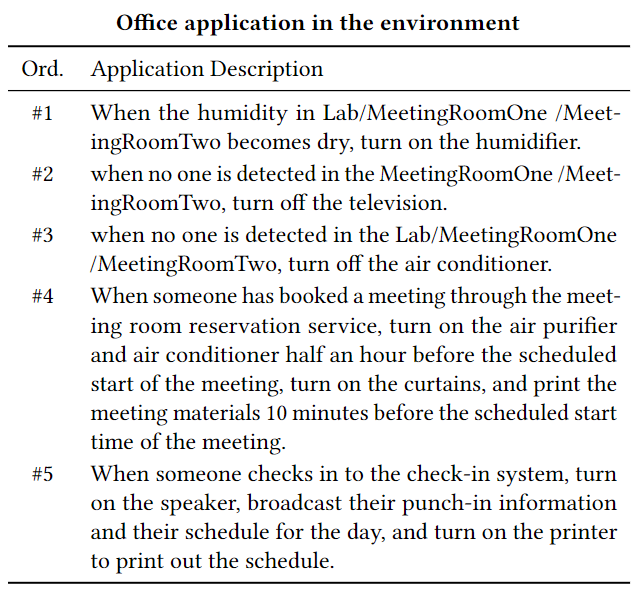
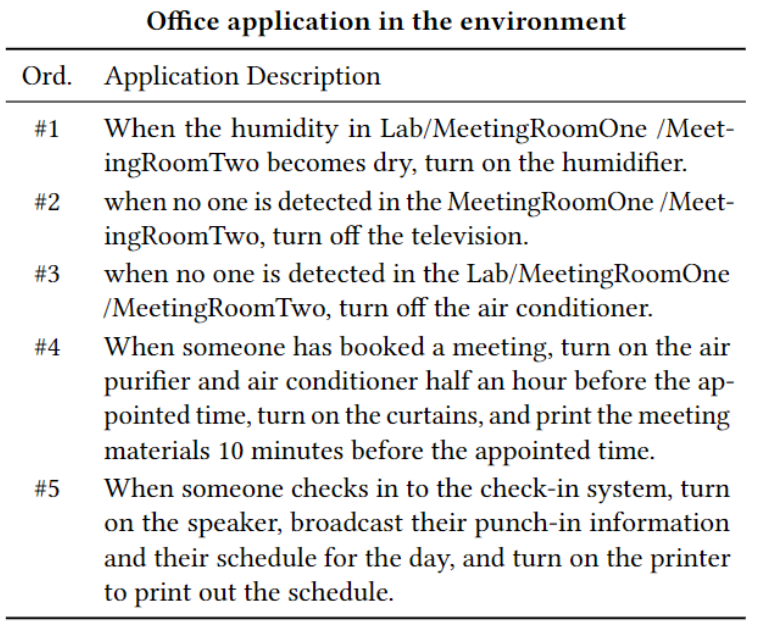
upload images

diff --git a/README.md b/README.md
@@ -20,21 +20,20 @@ The spatial layout and the deployed devices of the smart office and the smart ho
 <!-- There are 21 students working and studying in the laboratory, and 5 types of WoT applications are deployed to provide convenience for daily office work. Details of the applications are described below:
 <div align=center><img width="400" src="https://raw.githubusercontent.com/EnvGuard-2023/EnvGuard-2023.github.io/master/images/application.png"/></div> -->
 
+We deployed 5 types of WoT applications in office and home for our daily office work and home life. The applications are as follows:
+<div align=center>
+<img width="42%" style="margin-right:2%" src="https://raw.githubusercontent.com/EnvGuard-2023/EnvGuard-2023.github.io/master/images/office_application.png"/>
+<img width="53%" src="https://raw.githubusercontent.com/EnvGuard-2023/EnvGuard-2023.github.io/master/images/home_application.png"/>
+</div>
+
 Through interviews with staff in the environment, we obtained ten expected safety and security property requirements from interviews with individuals who work or live there daily for each environment. We invited six experts with WoT development experience to independently analyze and label the events and actions that violated the properties (Fleiss Kappa = 0.68) and resolve discrepancies through discussion to obtain the ground truth. The properties are as follows:
 <div align=center>
 <img width="46%" style="margin-right:2%" src="https://raw.githubusercontent.com/EnvGuard-2023/EnvGuard-2023.github.io/master/images/office_propertys.png"/>
 <img width="46.3%" src="https://raw.githubusercontent.com/EnvGuard-2023/EnvGuard-2023.github.io/master/images/home_propertys.png"/>
 </div>
 
-
-We deployed 5 types of WoT applications in office and home for our daily office work and home life. The applications are as follows:
-<div align=center>
-<img width="46%" style="margin-right:2%" src="https://raw.githubusercontent.com/EnvGuard-2023/EnvGuard-2023.github.io/master/images/office_application.png"/>
-<img width="46.3%" src="https://raw.githubusercontent.com/EnvGuard-2023/EnvGuard-2023.github.io/master/images/home_application.png"/>
-</div>
-
 The dataset includes the initial state of the environment and devices, and the state changes during the following 14 days which are recorded in the formats: {Name, Type, Location, Object, Timestamp, Payload Data, Source, Property Violation, Resolving Action}. Name indicates the name of device service that provides information about changes in the state of the environment/device. Type represents the type (action or event) of the device service. Location indicates the deployment location of the device. Object denotes the state name of the target device/environment object being updated by the device service. Timestamp records  the time when the state change occurs. Source indicates that the data record is caused by an environment change, an application call, or an offline user operation. Payload Data records the current state value. Property Violation indicates the ID of violated environment properties caused by the device service. Resolving Action indicates the generated resolving strategy of the violation.
-
+ 
 ## GUI Tool
 The visualized environment property description tool.([GUI](http://47.101.169.122:9033/))
 
